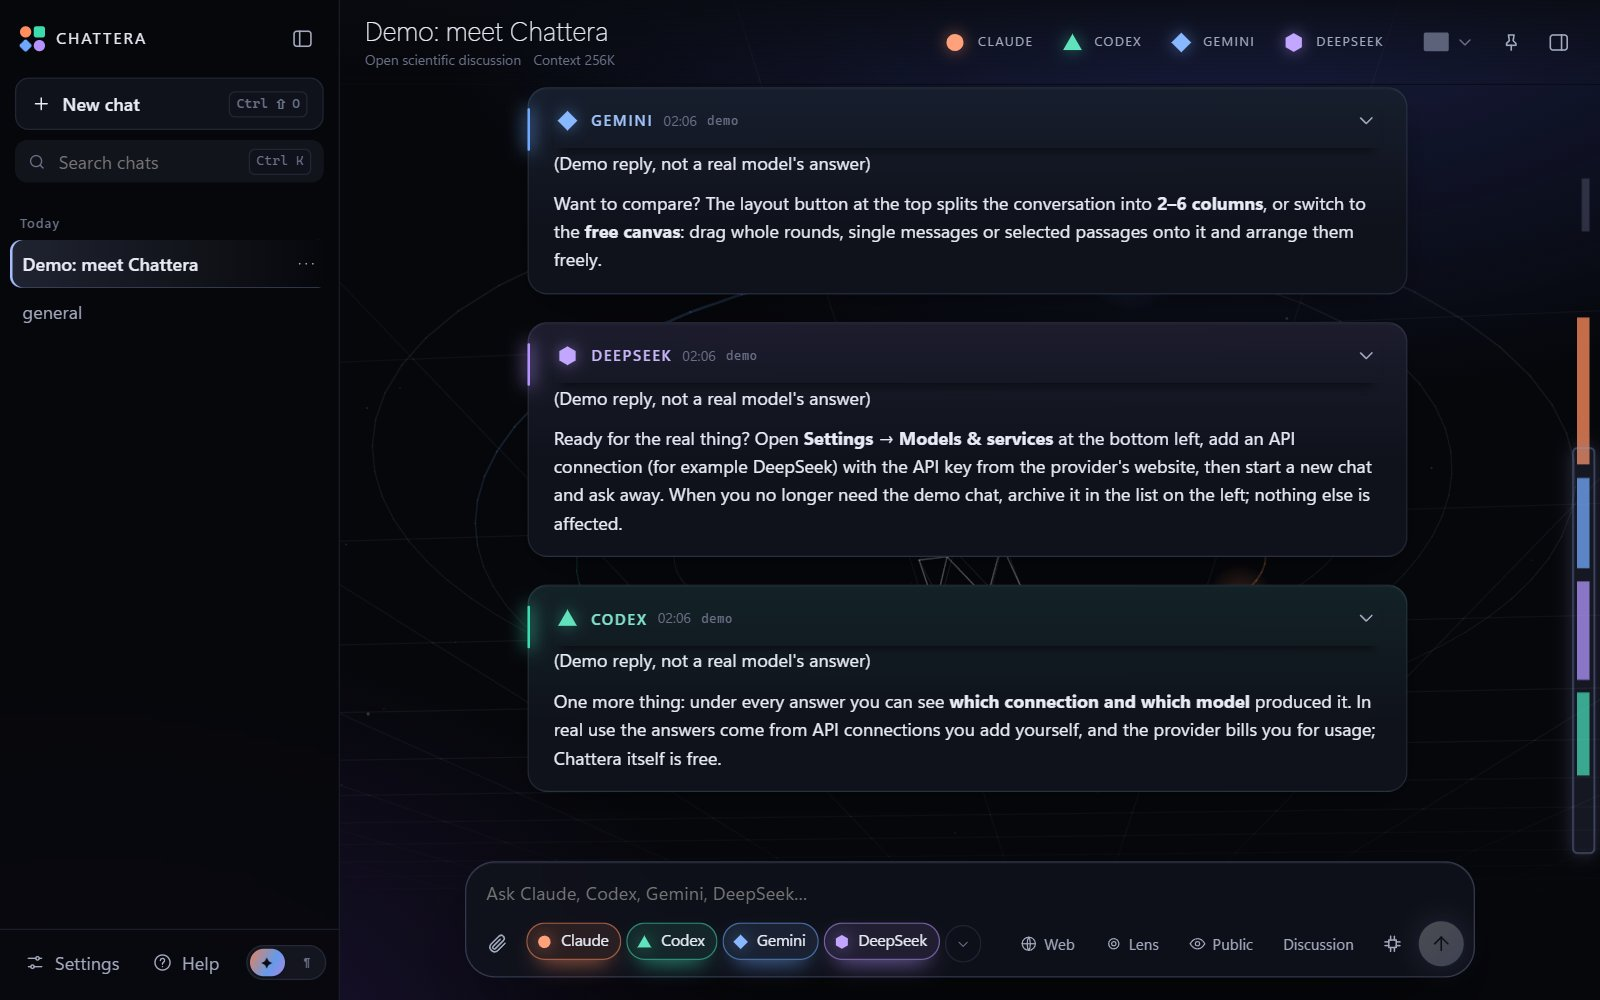
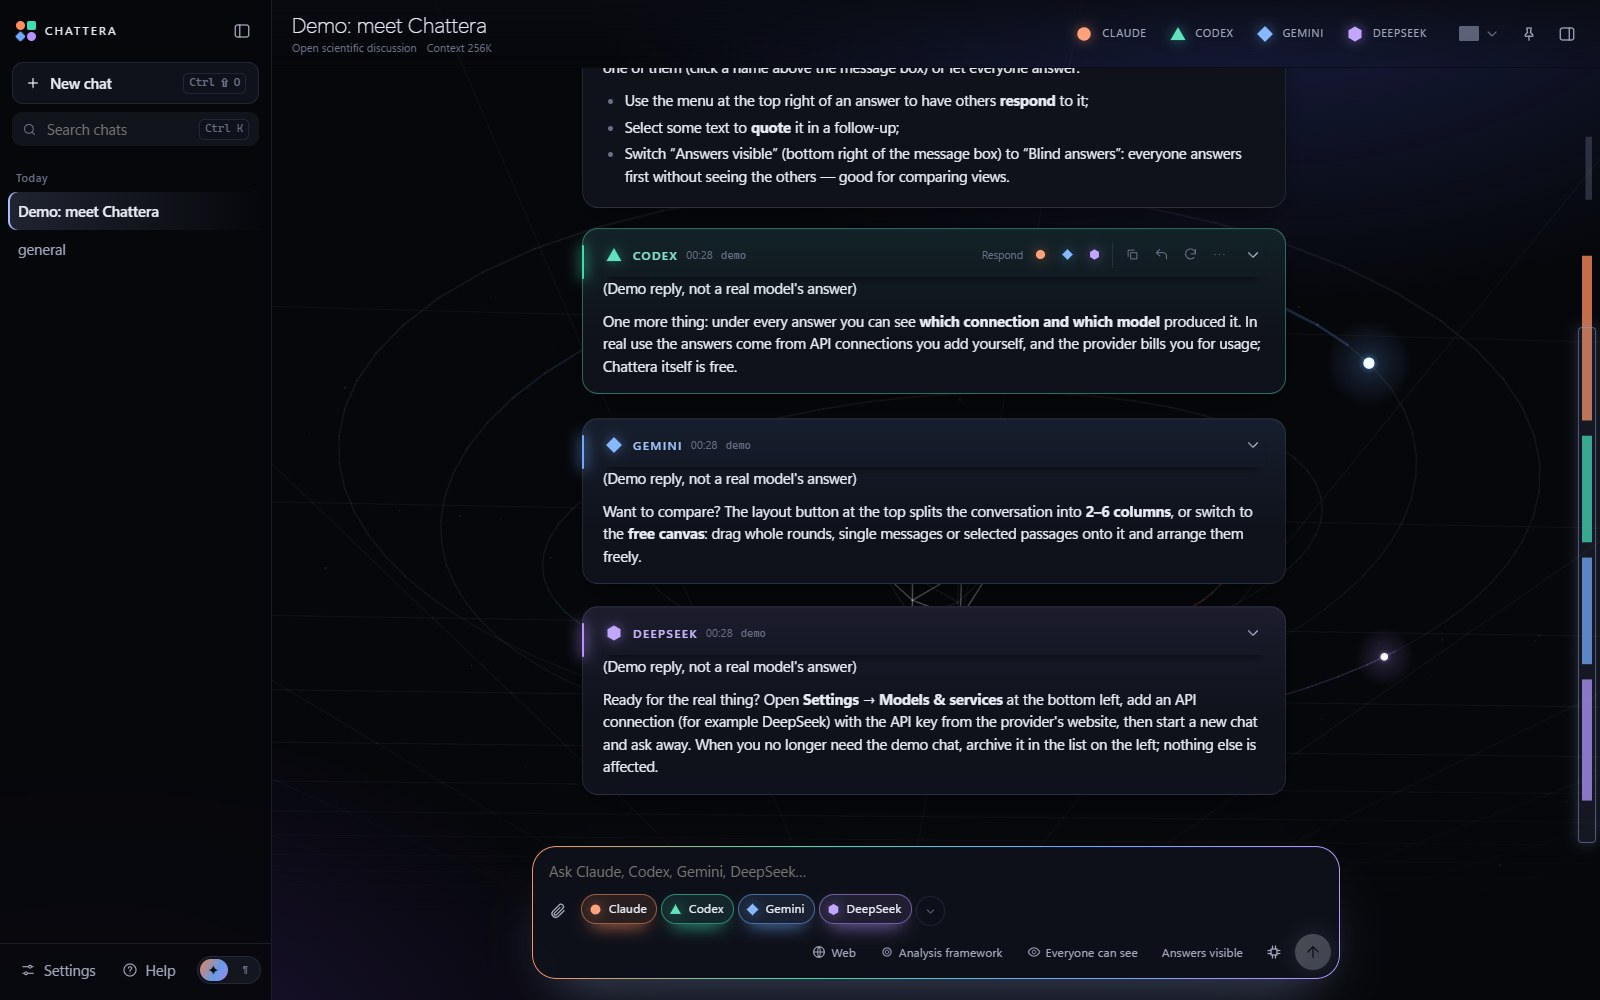
Chattera 0.2.0: docs, guide and demo use the new wording
Version 0.2.0 with a consolidated changelog. READMEs and the full guide describe blind answers, analysis frameworks, who can see a message, long research with the chat folder, deleting chats and moving the library and caches; the demo reply names the new switch. Demo screenshots retaken from a throwaway demo instance.

diff --git a/docs/user-guide/02_full.html b/docs/user-guide/02_full.html
@@ -65,18 +65,22 @@
 <figure><img src="img/05-settings-models.jpg" alt="模型与服务"><figcaption>设置 → 模型与服务：左边是参与者和连接，右边是所选参与者使用的模型。</figcaption></figure>
 
 <h2>4　多模型群聊</h2>
-<figure><img src="img/03-composer.jpg" alt="输入区"><figcaption>输入区：下方的名字是本次的回答者；右侧依次是 联网、视角、公开、讨论 和本次模型设置。</figcaption></figure>
+<figure><img src="img/03-composer.jpg" alt="输入区"><figcaption>输入区：下方的名字是本次的回答者；右侧依次是 联网、分析框架、全员可见、回答互相可见 和本次模型设置。</figcaption></figure>
 <ul>
   <li><b>选择谁来回答：</b>点输入框下方的名字来选中或取消；旁边的 <b class="ui">⌄</b> 可以搜索、固定常用参与者或添加新模型。</li>
   <li><b>点名：</b>只选一位，就只有它回答。</li>
   <li><b>让别人接着说：</b>每条回答上方有 <b class="ui">请回应</b>，可以请另一位模型回应这条回答。</li>
   <li><b>引用追问：</b>在回答里选中一段文字，点出现的 <b class="ui">引用</b>，再输入你的追问。</li>
-  <li><b>私聊：</b>点 <b class="ui">公开</b> 改为 <b class="ui">仅回答者可见</b> 或指定可见的模型。其他模型读不到这条消息和它的回答。</li>
-  <li><b>独立回答：</b>点 <b class="ui">讨论</b> 改为 <b class="ui">独立回答</b>：各模型互相看不到对方的答案，你确认后才公开，适合比较不同观点。</li>
+  <li><b>私聊：</b>点 <b class="ui">全员可见</b> 改为 <b class="ui">只给回答者看</b> 或指定能看到的模型。其他模型读不到这条消息和它的回答。“谁来回答”和“谁能看到”是两回事：只点名一位回答一条全员可见的提问，其他模型之后仍能读到它。</li>
+  <li><b>背靠背回答：</b>点 <b class="ui">回答互相可见</b> 改为 <b class="ui">背靠背回答</b>：各模型互相看不到对方的答案，你确认后才公开，适合比较不同观点。<b class="ui">严格背靠背</b> 还会把之前的私聊也排除在外。</li>
+  <li><b>分析框架：</b>点 <b class="ui">分析框架</b> 选择这次提问的思考角度（例如研究设计审查、统计与因果推断）。它决定从哪些角度分析，不决定结论。</li>
   <li><b>本次换个模型：</b>点最右侧的齿轮，只对这一次发送生效。</li>
   <li><b>每轮工具：</b>一轮有多个回答时，上方有 <b class="ui">复制本轮</b>（复制为 Markdown）、<b class="ui">放到画布</b>、<b class="ui">并排对照</b>、<b class="ui">全部折叠</b>。</li>
 </ul>
 <div class="note">每条回答下方会写明它实际用的连接和模型。回答出错时会直接说明原因（例如余额不足、服务暂时不可用），不会假装成功。</div>
+<h3>4.1　长时间调研与聊天文件夹</h3>
+<p>和网页版聊天一样，模型自己决定搜多少、读多少，觉得够了再作答，没有固定的次数上限。回答进行中，等待卡片上会显示它正在搜什么、已经走了几步，旁边的停止按钮随时可以停。每条回答的最长时长在 <b class="ui">设置 → 检索与工具 → 回答节奏</b> 里调（默认 30 分钟，可以设为不限）。到了时限，模型会先用已经查到的内容作答，不会白白丢掉。</p>
+<p>开启 <b class="ui">研究代理</b>（默认开启）后，每个聊天有一个 <b>聊天文件夹</b>：模型可以在里面记笔记、存表格、下载开放获取的论文。存下的文件会列在回答下面，点开即可查看；在 <b class="ui">房间设置 → 这个聊天 → 打开聊天文件夹</b> 可以打开整个文件夹。模型不能运行命令，也碰不到这个文件夹以外的东西。</p>
 
 <h2>5　联网检索</h2>
 <div class="cols">
@@ -132,7 +136,8 @@
   <li><b>备份：</b>先退出 Chattera，再把整个 <code>Chattera</code> 数据文件夹复制到别处。</li>
   <li><b>换电脑：</b>在新电脑上解压程序，退出状态下把备份的数据文件夹放回 <span class="path">%LOCALAPPDATA%\Chattera</span>。</li>
   <li><b>便携模式（U 盘）：</b>在 <code>Chattera.exe</code> 旁边新建一个名为 <code>portable.txt</code> 的空文件，之后数据都保存在程序旁边的 <code>data</code> 文件夹里。</li>
-  <li><b>删除聊天：</b>目前不能删除，只能在左侧列表里把聊天<b>归档</b>（随时可以恢复）。</li>
+  <li><b>归档与删除：</b>不常用的聊天可以<b>归档</b>，随时恢复；不再需要的聊天，在它的菜单或房间设置里选 <b class="ui">永久删除…</b>，消息、附件、回答记录、摘要、画布、资料库和聊天文件夹会一起清除，无法恢复。展开“已归档”，最下面还有 <b class="ui">清空已归档…</b>。建立分支会得到一份完全独立的副本，删除任何一方都不影响另一方。</li>
+  <li><b>资料库与缓存放在别处：</b>在 设置 → 数据 → 资料库 里可以把资料库换到别的文件夹（例如云盘里的文件夹）；附件解析、网页和 PDF 的下载缓存、聊天文件夹都会跟着放过去，本机只留聊天数据本身。</li>
   <li><b>导出：</b>设置 → 数据 → 导出聊天历史（ZIP，含私聊内容，请妥善保管）。</li>
 </ul>
 <div class="note warn"><b>安全：</b>Chattera 只在本机运行（地址 127.0.0.1），没有为多人访问设计登录保护。不要把它开放到局域网或互联网。</div>

diff --git a/src/chattera_setup.py b/src/chattera_setup.py
@@ -28,7 +28,7 @@ DEMO_REPLIES = {
     'claude': N_("（演示回复，不是真实模型的回答）\n\n你好！这里是一个**群聊**：你提一个问题，房间里的几位 AI 会各自回答。"
                "你可以只问其中一位（点输入框上方的名字），也可以让大家都回答。\n\n"
                "- 点一条回答右上角的菜单，可以让别人**接着回应**它；\n- 选中一段文字，可以**引用**它继续追问；\n"
-               "- 打开“独立回答”，每位会先各自作答，互相看不到对方，适合比较不同观点。"),
+               "- 把输入框右下的“回答互相可见”改成“背靠背回答”，每位会先各自作答，互相看不到对方，适合比较不同观点。"),
     'codex': N_("（演示回复，不是真实模型的回答）\n\n补充一点：每条回答下面会写明它用的是**哪个连接、哪个模型**。"
               "真实使用时，这些回答来自你自己添加的 API 连接，费用由对应的服务商按用量收取；Chattera 本身免费。"),
     'antigravity': N_("（演示回复，不是真实模型的回答）\n\n想对比阅读？顶部的布局按钮可以把对话分成 **2–6 栏**，"

diff --git a/CHANGELOG.md b/CHANGELOG.md
@@ -1,48 +1,50 @@
 # Changelog
 
-## 0.1.3 — OpenAI Responses API
+## 0.2.0 — Ready for real research
 
-- **OpenAI Responses protocol.** Newer OpenAI reasoning models refuse function tools together with reasoning effort on
-  `/chat/completions`; connections to OpenAI can now use `/v1/responses` instead, with tool calls, reasoning effort and
-  image input. Requests are stateless (`store: false`); encrypted reasoning items are passed back unchanged between
-  tool rounds. The OpenAI preset uses it for new connections.
-- **OpenAI official web search** on Responses connections to `api.openai.com`, recorded like the other official
-  searches (queries, pages opened, citations). Switch it off per connection under *Official web search*.
-- A connection test that fails with OpenAI's "use /v1/responses" message offers the switch in one click.
-- **Delete chats.** A chat can now be deleted permanently from its menu or the room settings, and the archive can be
-  emptied in one step. Everything recorded only for that chat goes with it: messages and versions, attachments and their
-  parse cache, reply records, summaries, automatic memory, shared-retrieval bundles, canvas and research library. Cached
-  library files are removed only when no other chat uses them.
-- **Replies pace themselves, as in a web chat.** There is no fixed number of searches or reads: a model works until it
-  has enough, then answers. What bounds a reply is its time limit (Settings → Search & tools → *Longest time per reply*:
-  10 min to 2 h, or no limit; 30 min by default) and your stop button. Near the limit API models are asked to finish with
-  what they have; a model repeating the same call is answered from the first result and then asked to finish.
-  A running reply shows how many steps it has taken.
-- **Research agent** (on by default, Settings → Search & tools): Claude Code and Codex use their own web search for
-  messages everyone can see, and every chat has a **chat folder** where participants keep notes, tables and downloaded
-  open-access papers (`workspace_list / read / write / download`). Files a reply saved are listed under it and open in
-  a new tab; Room settings → *Open chat folder*. The folder lives in the library folder (so it syncs when the library is in
-  a cloud folder) and is deleted with the chat. Models cannot run commands or reach anything outside the folder.
-- **Clearer words in the message box.** *Analysis framework* (was “lens”), *Everyone can see / Only X can see* (was
-  “public”), *Answers visible / Blind answers* (was “discussion / independent”), each with a short explanation.
-- **Room to work.** Limits sized for long research rather than quick chats:
-  - tool calls per reply: 60 search/read calls (was 8) and 80 library calls; up to 20 request rounds on tool-enabled API connections;
-  - one read returns 20,000 characters of a page or paper (was 5,200); searches return up to 20 results with abstracts up to 3,000 characters;
-  - output limit 32,000 tokens by default, up to 128,000; API timeout 900 s by default, up to 3,600 s;
-  - older long messages are shown in full up to 32 KB before being excerpted (scaled to the model's budget);
-  - attachments: 12 per message, 50 MB each; OCR up to 300 pages;
-  - automatic memory up to 40,000 bytes; 50 pins of up to 8,000 characters; longer library notes and quotes.
-- **Nothing is thrown away for hitting a limit.** When the tool budget or the request rounds run out, the model gets one last request
-  with tool calls switched off and answers from what it found. An answer that reaches the output limit is kept, with a note that it
-  was cut off.
-- **Caches live with the library.** Parsed attachments, rendered PDF pages and downloaded web pages and PDFs are kept in
-  `<library folder>\cache`, so a library in a cloud-synced folder (e.g. Google Drive) takes them along; they fall back to the local
-  data folder while that folder is unreachable. The library cache budget defaults to 20 GiB.
-- **Branches are independent copies**: a branch now also gets its own copy of the research library, so deleting either
-  chat never affects the other.
-- **Fix:** replies from a participant whose id ends in a number (e.g. `claude-fable-5-2`) were drawn as your own
-  messages; on a slow start, other added participants could look the same until the next change.
-- **Fix:** menus opened inside Settings (the ⋯ menu on each model) were shown but could not be clicked.
+The first version meant for everyday use: all three API families work out of the box, replies take the time a
+research question needs, and nothing a model found is lost because it hit a limit.
+
+**Connections that work**
+- **OpenAI Responses API.** Newer OpenAI reasoning models refuse function tools together with reasoning effort on
+  `/chat/completions`; OpenAI connections now use `/v1/responses` (tool calls, reasoning effort, images; stateless,
+  `store: false`). The OpenAI preset uses it, and a connection test that fails with OpenAI's “use /v1/responses”
+  message offers the switch in one click. OpenAI's own web search is available on these connections.
+- Anthropic keys that are not scoped to a workspace, and slow relays, are handled (workspace ID in *Compatibility*,
+  longer timeouts).
+
+**Replies that take the time they need**
+- **Self-paced, as in a web chat.** No fixed number of searches or reads: a model works until it has enough, then
+  answers. A reply is bounded by its time limit (Settings → Search & tools → *Longest time per reply*: 10 min to 2 h,
+  or no limit; 30 min by default) and by your stop button. A running reply shows what it is doing and how many steps
+  it has taken.
+- **Nothing is thrown away for hitting a limit.** Near the time limit, or if a model keeps repeating the same call, it
+  is asked to answer from what it has. An answer that reaches the output limit is kept, marked as cut off.
+- **Research agent** (on by default): every chat has a **chat folder** where participants keep notes, tables and
+  downloaded open-access papers; files a reply saved are listed under it and open in a new tab (Room settings →
+  *Open chat folder*). Models cannot run commands or reach anything outside that folder. Locally installed official
+  CLIs, if you enabled them, may use their own web search for messages everyone can see.
+- **Room to work**: one read returns 20,000 characters; searches return up to 20 results; output limit 32,000 tokens by
+  default (up to 128,000); 12 attachments per message, 50 MB each; OCR up to 300 pages; longer history excerpts,
+  automatic memory, pins and library notes.
+
+**Your data**
+- **Delete chats** permanently from the chat menu or the room settings, or empty the archive in one step. Everything
+  recorded only for that chat goes with it (messages and versions, attachments, reply records, summaries, canvas,
+  research library, chat folder); shared cached files go only when no other chat uses them.
+- **Branches are independent copies**, research library included: deleting either chat never affects the other.
+- **Caches live with the library**: parsed attachments, rendered PDF pages and downloaded pages and PDFs are kept in
+  `<library folder>\cache`, so a library in a cloud-synced folder takes them along (local fallback while it is
+  unreachable).
+- **Automatic summaries** can be switched on from the room panel (Room settings → Summary): for all chats, paused per
+  chat, with a choice of which installed CLI writes them. They stay off in a new install.
+
+**Clearer interface**
+- Message box: *Analysis framework* (was “lens”), *Everyone can see / Only X can see* (was “public”), *Answers visible /
+  Blind answers* (was “discussion / independent”), each with a short explanation.
+- **Fixes:** replies from participants whose id ends in a number (e.g. `claude-fable-5-2`) were drawn as your own
+  messages; menus inside Settings (the ⋯ menu on each model) could not be clicked; the automatic-summary button did
+  nothing in a new install.
 
 ## 0.1.2 — Easier model settings, clearer errors
 

diff --git a/README.zh-CN.md b/README.zh-CN.md
@@ -27,10 +27,10 @@ Chattera 运行在你自己的电脑上。通过 API 接入你想用的模型：
 Kimi、智谱 GLM、OpenRouter，或任何 OpenAI 兼容的服务。然后和它们一起聊：
 
 - 可以一起问，也可以单独点名；
-- 让它们互相回应，比较各自独立的回答；
+- 让它们互相回应，或者背靠背作答再比较；
 - 多栏对照阅读，在自由画布上整理讨论。
 
-它是一个聊天工具，不是智能体平台：模型只负责回答，不会运行命令，也不会改动你的文件。
+它是一个聊天工具，不是智能体平台：模型不会运行命令，也碰不到你的文件。做调研时，它们只能在每个聊天自己的“聊天文件夹”里记笔记、存下载的论文。
 
 > **免费。**Chattera 开源（MIT）。使用真实模型时，费用由你选择的模型服务商按 API 用量直接向你收取；演示模式不调用任何模型，不产生费用。
 
@@ -60,7 +60,7 @@ Kimi、智谱 GLM、OpenRouter，或任何 OpenAI 兼容的服务。然后和它
 几个模型在同一个对话里。可以一起问，也可以单独点名；让一个模型回应另一个的回答；引用一段话继续追问。
 </td>
 <td width="50%" valign="top">
-<b>独立回答</b><br>
+<b>背靠背回答</b><br>
 每位先各自作答、互相看不到对方，由你确认后才公开，适合真实地比较不同观点。
 </td>
 </tr>
@@ -91,7 +91,17 @@ Kimi、智谱 GLM、OpenRouter，或任何 OpenAI 兼容的服务。然后和它
 </td>
 <td valign="top">
 <b>数据只在本机</b><br>
-聊天、设置、Key 和资料库都保存在 <code>%LOCALAPPDATA%\Chattera</code>，只在 127.0.0.1 上运行。
+聊天、设置和 Key 保存在 <code>%LOCALAPPDATA%\Chattera</code>，只在 127.0.0.1 上运行。资料库和缓存可以放到你指定的文件夹，比如云盘。
+</td>
+</tr>
+<tr>
+<td valign="top">
+<b>像网页版一样的长时间调研</b><br>
+不设固定的搜索次数，模型自己决定查多少、读多少，觉得够了再作答；你能看到它走到了哪一步，随时可以停。每个聊天有一个“聊天文件夹”，模型可以在里面记笔记、存表格、下载开放获取的论文。
+</td>
+<td valign="top">
+<b>分支与删除</b><br>
+从任意一条消息建立分支，得到一份完全独立的副本（连同资料库）；不需要的聊天可以永久删除，附件、记录和聊天文件夹一起清除。
 </td>
 </tr>
 </table>
@@ -140,7 +150,7 @@ Kimi、智谱 GLM、OpenRouter，或任何 OpenAI 兼容的服务。然后和它
 
 - 便携版只支持 Windows 10/11 x64。macOS 和 Linux 可以从源码运行，但**未经测试**。
 - 只适合本机使用：没有用户认证，不要把它暴露到网络上。
-- 没有账号同步，也没有手机版。聊天暂时不能删除（可以归档）；历史记录按设计只追加、不改写。
+- 没有账号同步，也没有手机版。聊天内的历史记录按设计只追加、不改写（整个聊天可以永久删除）。
 - 不支持音频、视频和图片生成。
 
 ## 致谢

diff --git a/README.md b/README.md
@@ -25,10 +25,11 @@
 
 Chattera runs on your own computer. Add the models you want through their API — DeepSeek, OpenAI, Anthropic, Google
 Gemini, Qwen, Kimi, GLM, OpenRouter or any OpenAI-compatible endpoint — and talk to them together: ask everyone or one
-by name, let them respond to each other, compare independent answers, read side by side, and lay a discussion out on a
+by name, let them respond to each other, compare blind answers, read side by side, and lay a discussion out on a
 free canvas.
 
-It's a chat, not an agent platform: models answer; they don't run commands or edit your files.
+It's a chat, not an agent platform: models don't run commands or touch your files. For research they keep notes and
+downloaded papers in each chat's own chat folder, and nowhere else.
 
 > **Free.** Chattera is open source (MIT). With real models, the provider you choose bills you directly for API usage.
 > The demo calls no model and costs nothing.
@@ -60,7 +61,7 @@ Several models in one conversation. Ask everyone, or name one; let a model respo
 passage and follow up.
 </td>
 <td width="50%" valign="top">
-<b>Independent answers</b><br>
+<b>Blind answers</b><br>
 Everyone answers without seeing the others, and nothing is shared until you reveal it — for comparing views honestly.
 </td>
 </tr>
@@ -93,7 +94,20 @@ PDF, Word, HTML, text and images as attachments; text recognition (OCR) for scan
 </td>
 <td valign="top">
 <b>Local by design</b><br>
-Chats, settings, keys and the library stay in <code>%LOCALAPPDATA%\Chattera</code>. Chattera listens on 127.0.0.1 only.
+Chats, settings and keys stay in <code>%LOCALAPPDATA%\Chattera</code>. Chattera listens on 127.0.0.1 only. The library and
+caches can live in a folder you choose, such as a cloud drive.
+</td>
+</tr>
+<tr>
+<td valign="top">
+<b>Long research, like a web chat</b><br>
+No fixed number of searches: a model searches and reads until it has enough, then answers; you see how far it has got
+and can stop it any time. Each chat has a chat folder for notes, tables and downloaded open-access papers.
+</td>
+<td valign="top">
+<b>Branch and delete</b><br>
+Branch from any message into a fully independent copy (research library included); delete a chat for good, with its
+attachments, records and chat folder.
 </td>
 </tr>
 </table>
@@ -143,7 +157,7 @@ Chats, settings, keys and the library stay in <code>%LOCALAPPDATA%\Chattera</cod
 
 - The portable package is Windows 10/11 x64 only. macOS and Linux can run from source but are **untested**.
 - Local use only: there is no user authentication, so don't expose it to a network.
-- No account sync or mobile app. Chats can't be deleted yet (archive them instead); history is append-only by design.
+- No account sync or mobile app. History within a chat is append-only by design (a whole chat can be deleted).
 - No audio, video or image generation.
 - The full user guide is Chinese only for now; the English quick start covers the first chat.
 
